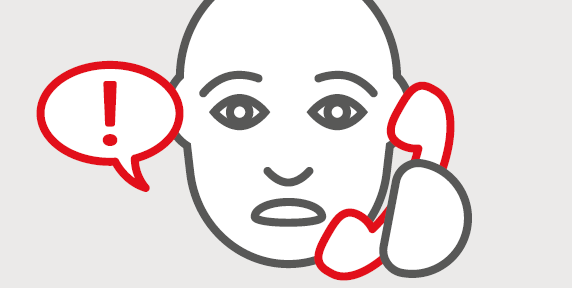
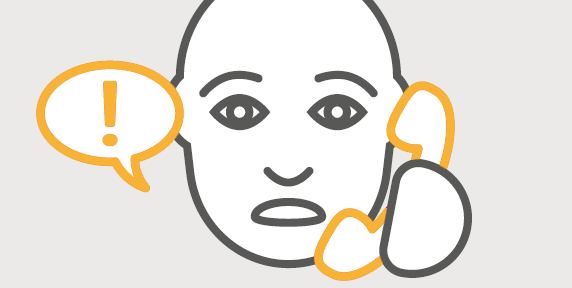
Changed the resources to match the color of the application added new pages to mmb.

Changed region(s): [[0.0594, 0.1875, 0.3269, 0.6875], [0.6538, 0.2812, 0.8024, 0.5938], [0.535, 0.7188, 0.6836, 1.0]]

diff --git a/DDApp/Apps/mmb/Styles/Article.scss b/DDApp/Apps/mmb/Styles/Article.scss
@@ -8,10 +8,14 @@
         padding: 2vh;
     }
 
-    
-}
+    section {
+        span.red-bullet {
+            color: $iconCircleColor;
+        }
+    }
+    }
 
 
-.Article.HasBorder {
-    border-bottom-color: $iconCircleColor;        
-}
+    .Article.HasBorder {
+        border-bottom-color: $iconCircleColor;
+    }

diff --git a/DDApp/Apps/mmb/Styles/PageHeader.scss b/DDApp/Apps/mmb/Styles/PageHeader.scss
@@ -4,7 +4,11 @@ body main > .PageHeader .iconCircle > img {
     display: unset;
 }
 
-
 .PageHeader {
     border-bottom-color: $iconCircleColor;
+    .iconCircle {
+        i {
+            color: $iconCircleColor;
+        }
+    }
 }
